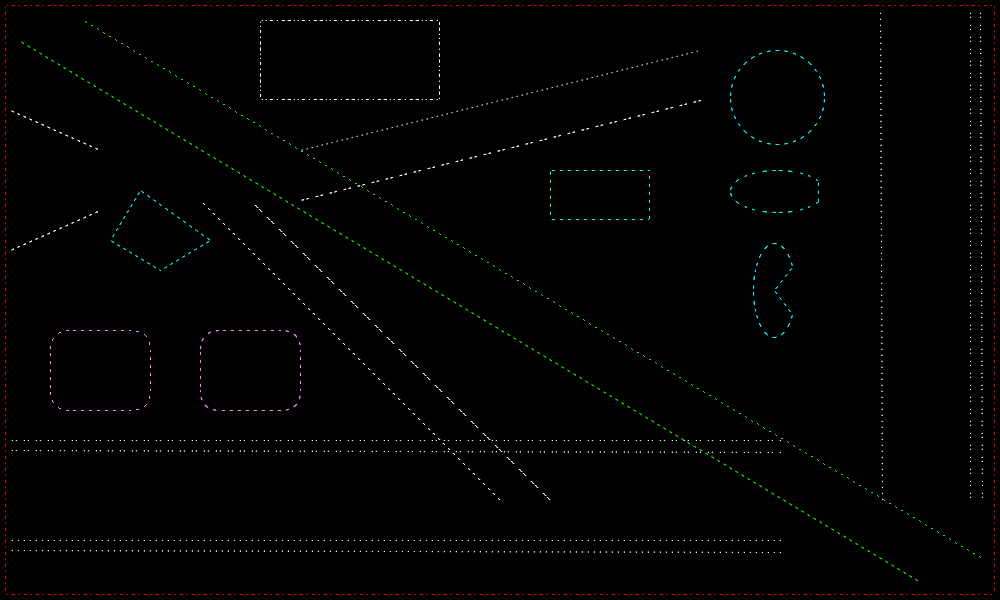
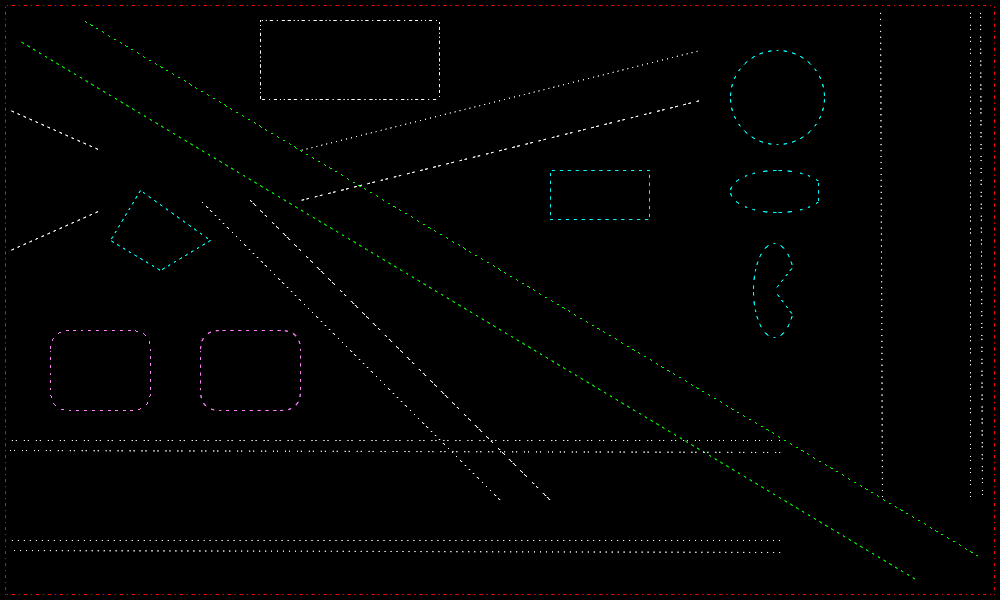
Fixing the calculation for pattern indexing counter

Changed region(s): [[0.713, 0.75, 0.744, 0.78], [0.341, 0.3, 0.372, 0.33], [0.31, 0.36, 0.341, 0.39]]

diff --git a/src/Pt-Gfx/Rasterizer2_PatternedLine.cpp b/src/Pt-Gfx/Rasterizer2_PatternedLine.cpp
@@ -90,7 +90,7 @@ void Rasterizer2::rasterOnePixelPatternedXLineSegment(Pt::int32_t x1, Pt::int32_
         // Get alpha from the pattern
         Pt::uint8_t patAlpha = _patternBuffer[FIXED_POINT_TO_INT(fpiCtrInOut)];
         fpiCtrInOut += fpiCtrInc;
-        if(fpiCtrInOut > _fpatternMaxCtr) fpiCtrInOut = 0;
+        if(fpiCtrInOut >= _fpatternMaxCtr) fpiCtrInOut -= _fpatternMaxCtr;
         // Check if we should skip drawing the pixel
         bool skipDrawing = !patAlpha;
         for(Pt::int32_t i = 0; !skipDrawing && i < 4; ++i) {
@@ -162,7 +162,7 @@ void Rasterizer2::rasterOnePixelPatternedGLineSegmentNoAA(Pt::int32_t x1, Pt::in
         // Get alpha from the pattern
         Pt::uint8_t patAlpha = _patternBuffer[FIXED_POINT_TO_INT(fpiCtrInOut)];
         fpiCtrInOut += fpiCtrInc;
-        if(fpiCtrInOut > _fpatternMaxCtr) fpiCtrInOut = 0;
+        if(fpiCtrInOut >= _fpatternMaxCtr) fpiCtrInOut -= _fpatternMaxCtr;
         // Check if we should skip drawing the pixel
         bool skipDrawing = !patAlpha;
         for(Pt::int32_t i = 0; !skipDrawing && i < 4; ++i) {
@@ -242,6 +242,9 @@ void Rasterizer2::rasterOnePixelPatternedGLineSegmentXWAA(Pt::int32_t x1, Pt::in
             IMG->format().setPixel(PIX, COL, _compositionMode, calpha);           \
         } while(false)
 
+    // A flag that indicates if the line direction is swapped
+    bool swapDir = false;
+
     // Swap the values as needed
     const Pt::int32_t deltaX = (fx2 >= fx1) ? (fx2 - fx1) : (fx1 - fx2);
     const Pt::int32_t deltaY = (fy2 >= fy1) ? (fy2 - fy1) : (fy1 - fy2);
@@ -256,12 +259,7 @@ void Rasterizer2::rasterOnePixelPatternedGLineSegmentXWAA(Pt::int32_t x1, Pt::in
         std::swap(fx1, fx2);
         std::swap(fy1, fy2);
 
-        while(true) {
-            fpiCtrInOut += fpiCtrInc;
-            if(fpiCtrInOut <= _fpatternMaxCtr) continue;
-            fpiCtrInOut = 0;
-            break;
-        }
+        swapDir = true;
     }
 
     // Handle the gradient, starting point, and ending point
@@ -270,18 +268,34 @@ void Rasterizer2::rasterOnePixelPatternedGLineSegmentXWAA(Pt::int32_t x1, Pt::in
     const Pt::int32_t xpxl2 = FIXED_POINT_ROUND(fx2);
     const Pt::int32_t ypxl  = fy1 + grad * FIXED_POINT_TO_INT(xpxl1 - fx1);
 
-    // Draw the pixels
+    // Calculate the starting coordinates
     Pt::int32_t from  = FIXED_POINT_TO_INT(FIXED_POINT_ROUND(fx1));
     Pt::int32_t to    = FIXED_POINT_TO_INT(xpxl2);
     Pt::int32_t ypxli = ypxl;
 
+    // If the line direction is swapped, determine the ending and starting value of the pattern indexing counter
+    Pt::int32_t fpiCtrNextOut = 0;
+    if(swapDir) {
+        const Pt::int32_t lineLen = to - from + 1;
+        fpiCtrNextOut = (fpiCtrInOut + fpiCtrInc * lineLen) % _fpatternMaxCtr;
+        fpiCtrInOut   = fpiCtrNextOut - fpiCtrInc;
+        if(fpiCtrInOut < 0) fpiCtrInOut += _fpatternMaxCtr;
+    }
+
+    // Draw the pixels
     if(steep) {
         // Draw the pixels
         for(Pt::int32_t i = from; i <= to; ++i) {
             // Get alpha from the pattern
             Pt::uint8_t pa = _patternBuffer[FIXED_POINT_TO_INT(fpiCtrInOut)];
-            fpiCtrInOut += fpiCtrInc;
-            if(fpiCtrInOut > _fpatternMaxCtr) fpiCtrInOut = 0;
+            if(swapDir) {
+                fpiCtrInOut -= fpiCtrInc;
+                if(fpiCtrInOut < 0) fpiCtrInOut += _fpatternMaxCtr;
+            }
+            else {
+                fpiCtrInOut += fpiCtrInc;
+                if(fpiCtrInOut >= _fpatternMaxCtr) fpiCtrInOut -= _fpatternMaxCtr;
+            }
             // Draw the pixels
             const Pt::uint8_t a1 = Rasterizer2::XWAA_WFILTER[ FIXED_POINT_FPART_TO_A8 (ypxli) ];
             const Pt::uint8_t a2 = Rasterizer2::XWAA_WFILTER[ FIXED_POINT_RFPART_TO_A8(ypxli) ];
@@ -302,8 +316,14 @@ void Rasterizer2::rasterOnePixelPatternedGLineSegmentXWAA(Pt::int32_t x1, Pt::in
         for(Pt::int32_t i = from; i <= to; ++i) {
             // Get alpha from the pattern
             Pt::uint8_t pa = _patternBuffer[FIXED_POINT_TO_INT(fpiCtrInOut)];
-            fpiCtrInOut += fpiCtrInc;
-            if(fpiCtrInOut > _fpatternMaxCtr) fpiCtrInOut = 0;
+            if(swapDir) {
+                fpiCtrInOut -= fpiCtrInc;
+                if(fpiCtrInOut < 0) fpiCtrInOut += _fpatternMaxCtr;
+            }
+            else {
+                fpiCtrInOut += fpiCtrInc;
+                if(fpiCtrInOut >= _fpatternMaxCtr) fpiCtrInOut -= _fpatternMaxCtr;
+            }
             // Draw the pixels
             const Pt::uint8_t a1 = Rasterizer2::XWAA_WFILTER[ FIXED_POINT_FPART_TO_A8 (ypxli) ];
             const Pt::uint8_t a2 = Rasterizer2::XWAA_WFILTER[ FIXED_POINT_RFPART_TO_A8(ypxli) ];
@@ -319,6 +339,9 @@ void Rasterizer2::rasterOnePixelPatternedGLineSegmentXWAA(Pt::int32_t x1, Pt::in
             (*maskInOut)[3].set(to,   FIXED_POINT_TO_INT(FIXED_POINT_IPART(ypxli) + FIXED_POINT_CONSTANT_ONE));
         }
     }
+
+    // If the line direction is swapped, send out the ending value of the pattern indexing counter which was previously calculated
+    if(swapDir) fpiCtrInOut = fpiCtrNextOut;
 
     // Undefine the helper macro
     #undef XW_SET_PIXEL

diff --git a/src/Pt-Gfx/Rasterizer2.cpp b/src/Pt-Gfx/Rasterizer2.cpp
@@ -347,7 +347,7 @@ void Rasterizer2::updatePenPattern()
     }
 
     // Store the maximum value of the counter in fixed-point
-    _fpatternMaxCtr = FIXED_POINT_FROM_INT(gctr - 1);
+    _fpatternMaxCtr = FIXED_POINT_FROM_INT(gctr);
 }
 
 void Rasterizer2::updateGradientBrush(Pt::int32_t width, Pt::int32_t height)
